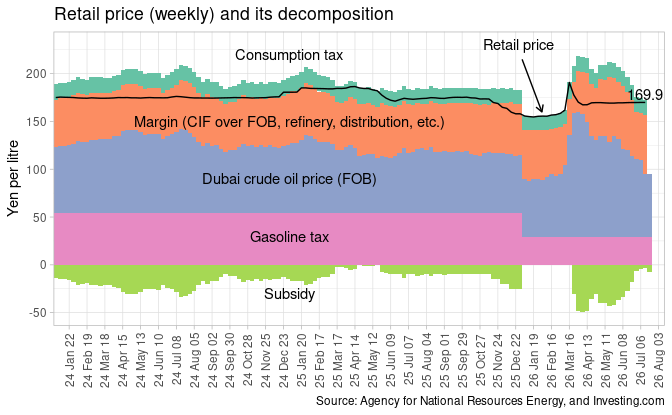
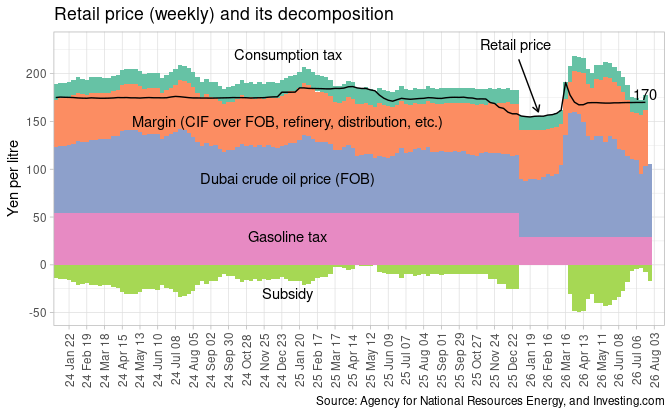
weekly update on July 23, 2026

diff --git a/README.md b/README.md
@@ -25,7 +25,7 @@ library(tidyquant)
 theme_set(theme_light())
 ```
 
-Updated: 2026-07-15
+Updated: 2026-07-23
 
 ## Weekly update
 
@@ -38,7 +38,7 @@ every Wednesday, usually. Sometimes, due to holidays, target dates and
 publishing dates are delayed.
 
 ``` r
-retail <- read_excel("data/260715s5.xlsx", 
+retail <- read_excel("data/260723s5.xlsx", 
                      sheet = "レギュラー",
                      col_types = c("text", "date", rep("numeric", 59))) |> 
   select(2:3) |> 
@@ -310,7 +310,8 @@ meti_dubai_weekly <- tribble(
 "2026-06-16", 81.6, # 06-22(Mon) 80.35 * 161.57 / 159
 "2026-06-23", 80.9, # 06-29(Mon) 79.45 * 161.95 / 159
 "2026-06-30", 66.4, # 07-06(Mon) 65.13 * 162.09 / 159
-"2026-07-07", 66.4 # 07-13(Mon) 73.43 * 162.44 / 159
+"2026-07-07", 75.0, # 07-13(Mon) 73.43 * 162.44 / 159
+"2026-07-14", 76.9 # 07-20(Mon) 75.27 * 162.50 / 159
 ) |> 
   fill(price, .direction = "down")
 ```
@@ -562,7 +563,8 @@ meti_subsidy <- tribble(
 "2026-06-16", 6.0,
 "2026-06-23", 4.8,
 "2026-06-30", 2.8,
-"2026-07-07", 7.5
+"2026-07-07", 7.5,
+"2026-07-14", 16.9
 ) |> 
   fill(subsidy, .direction = "down")
 ```